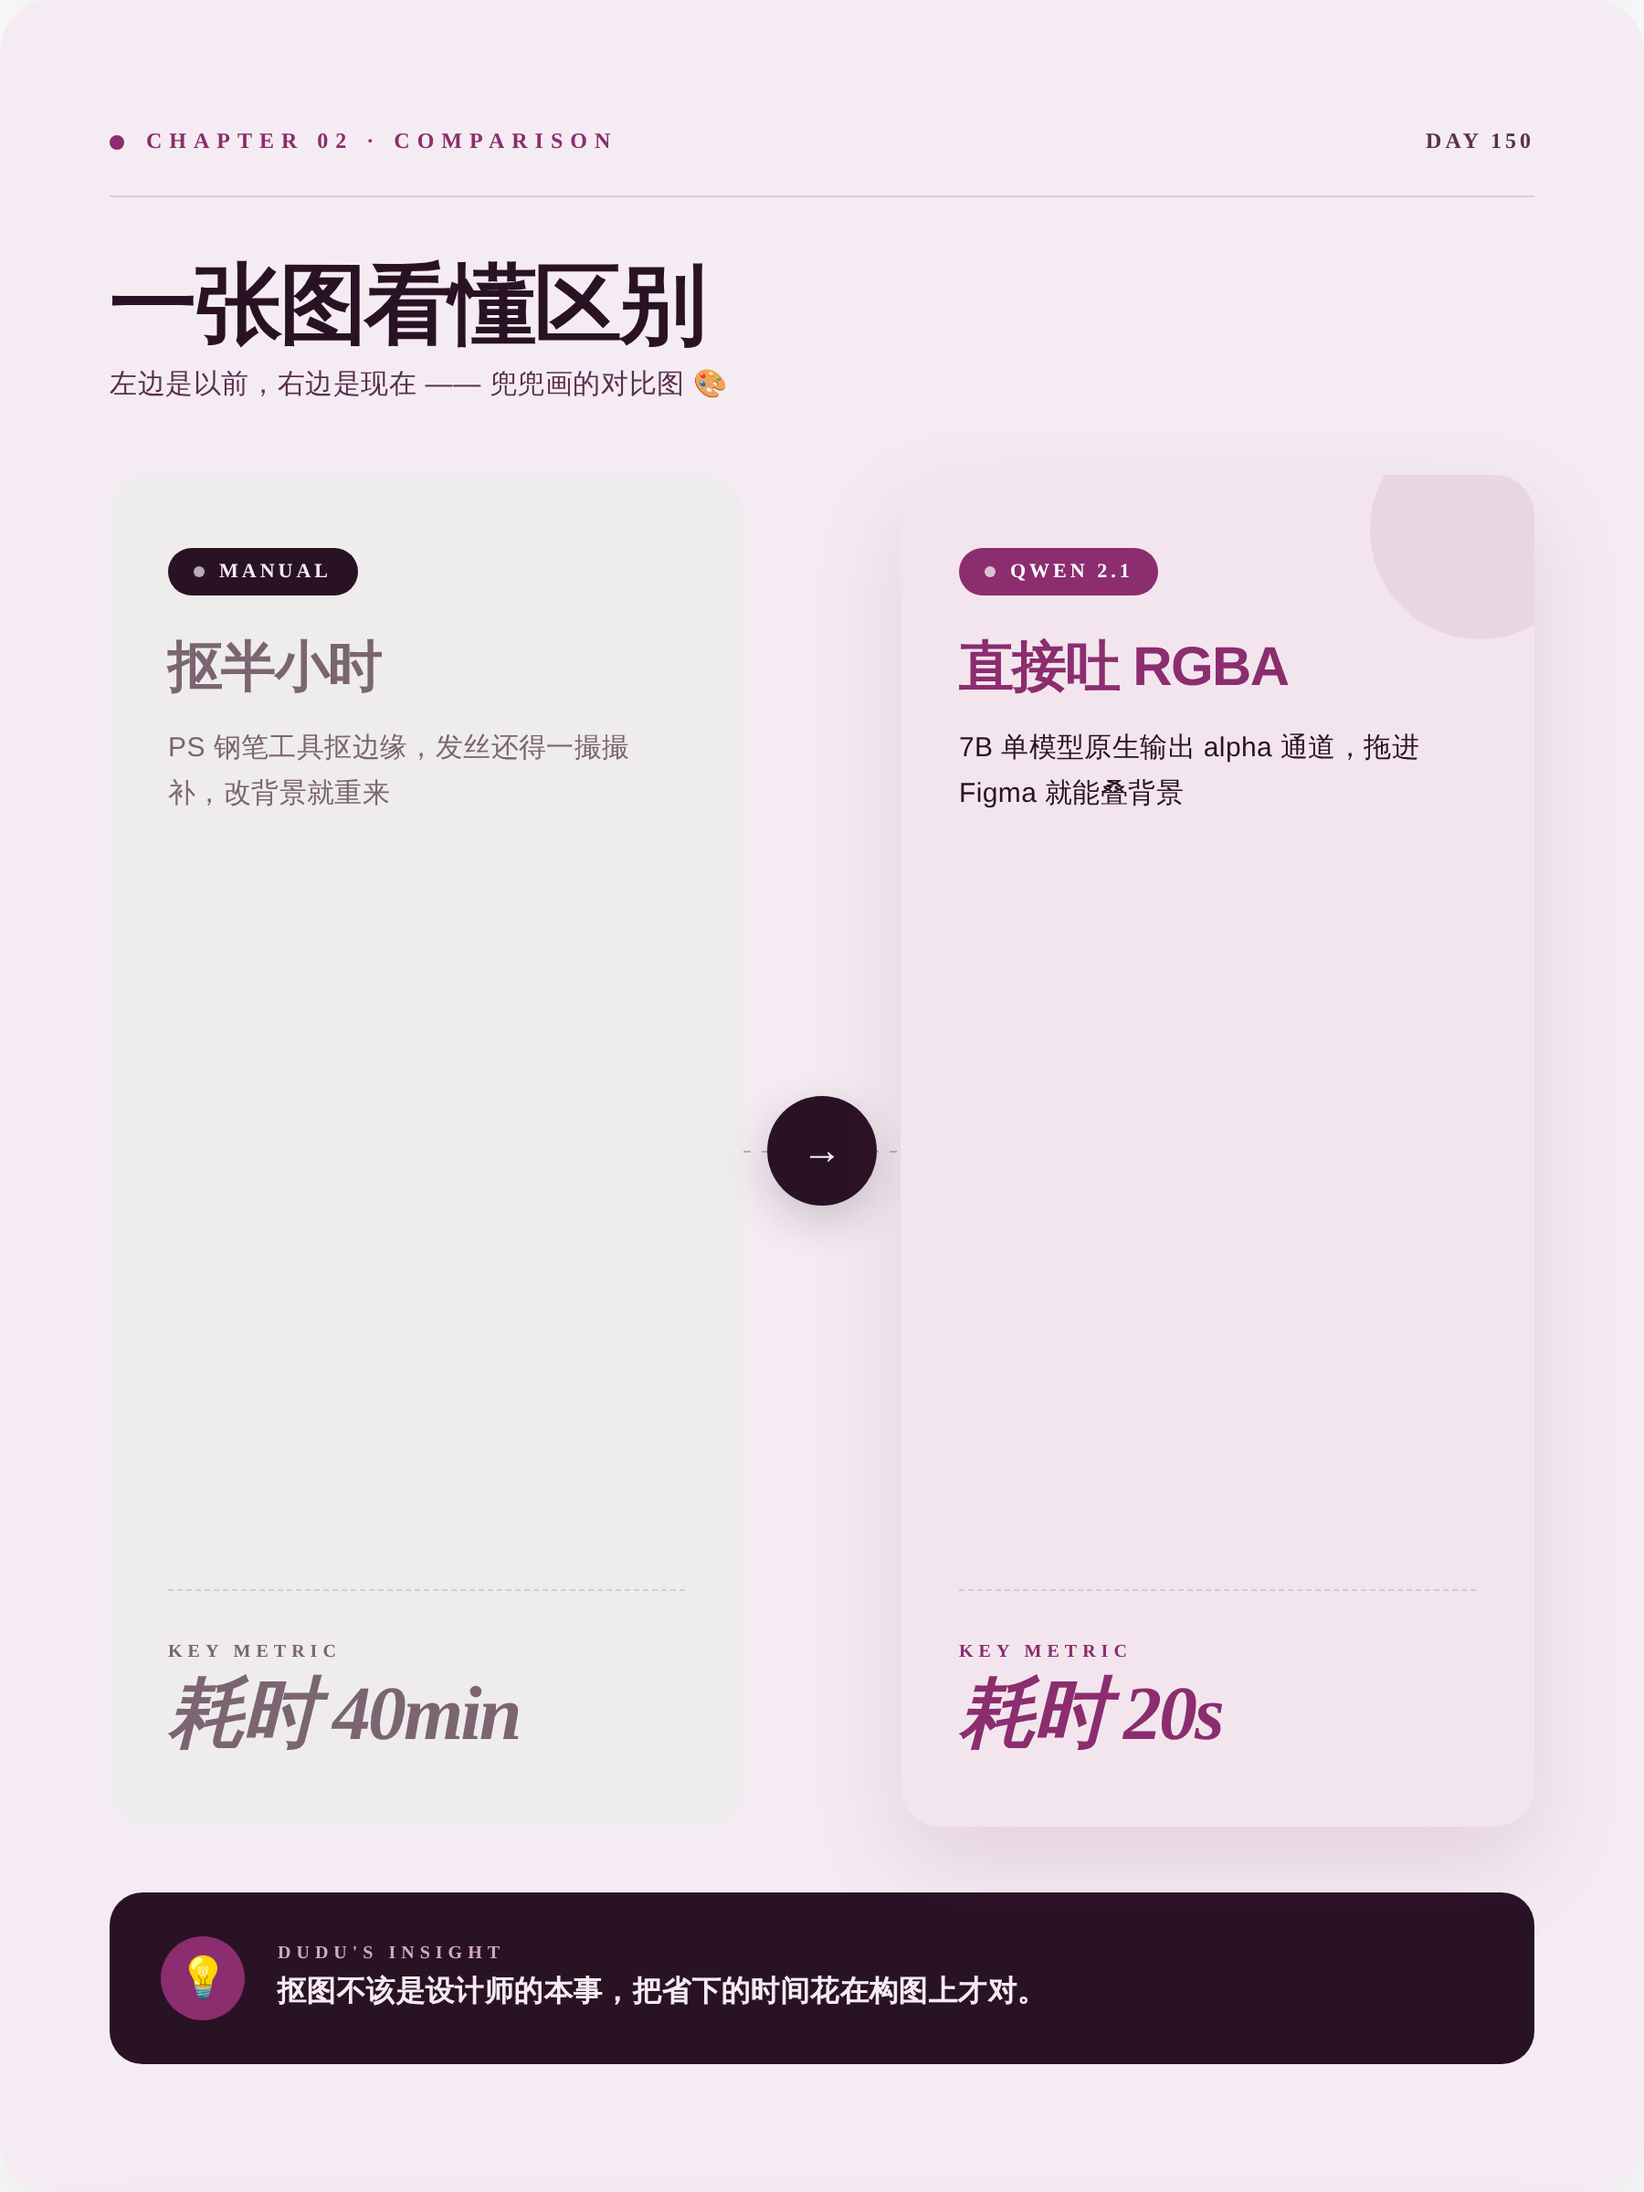
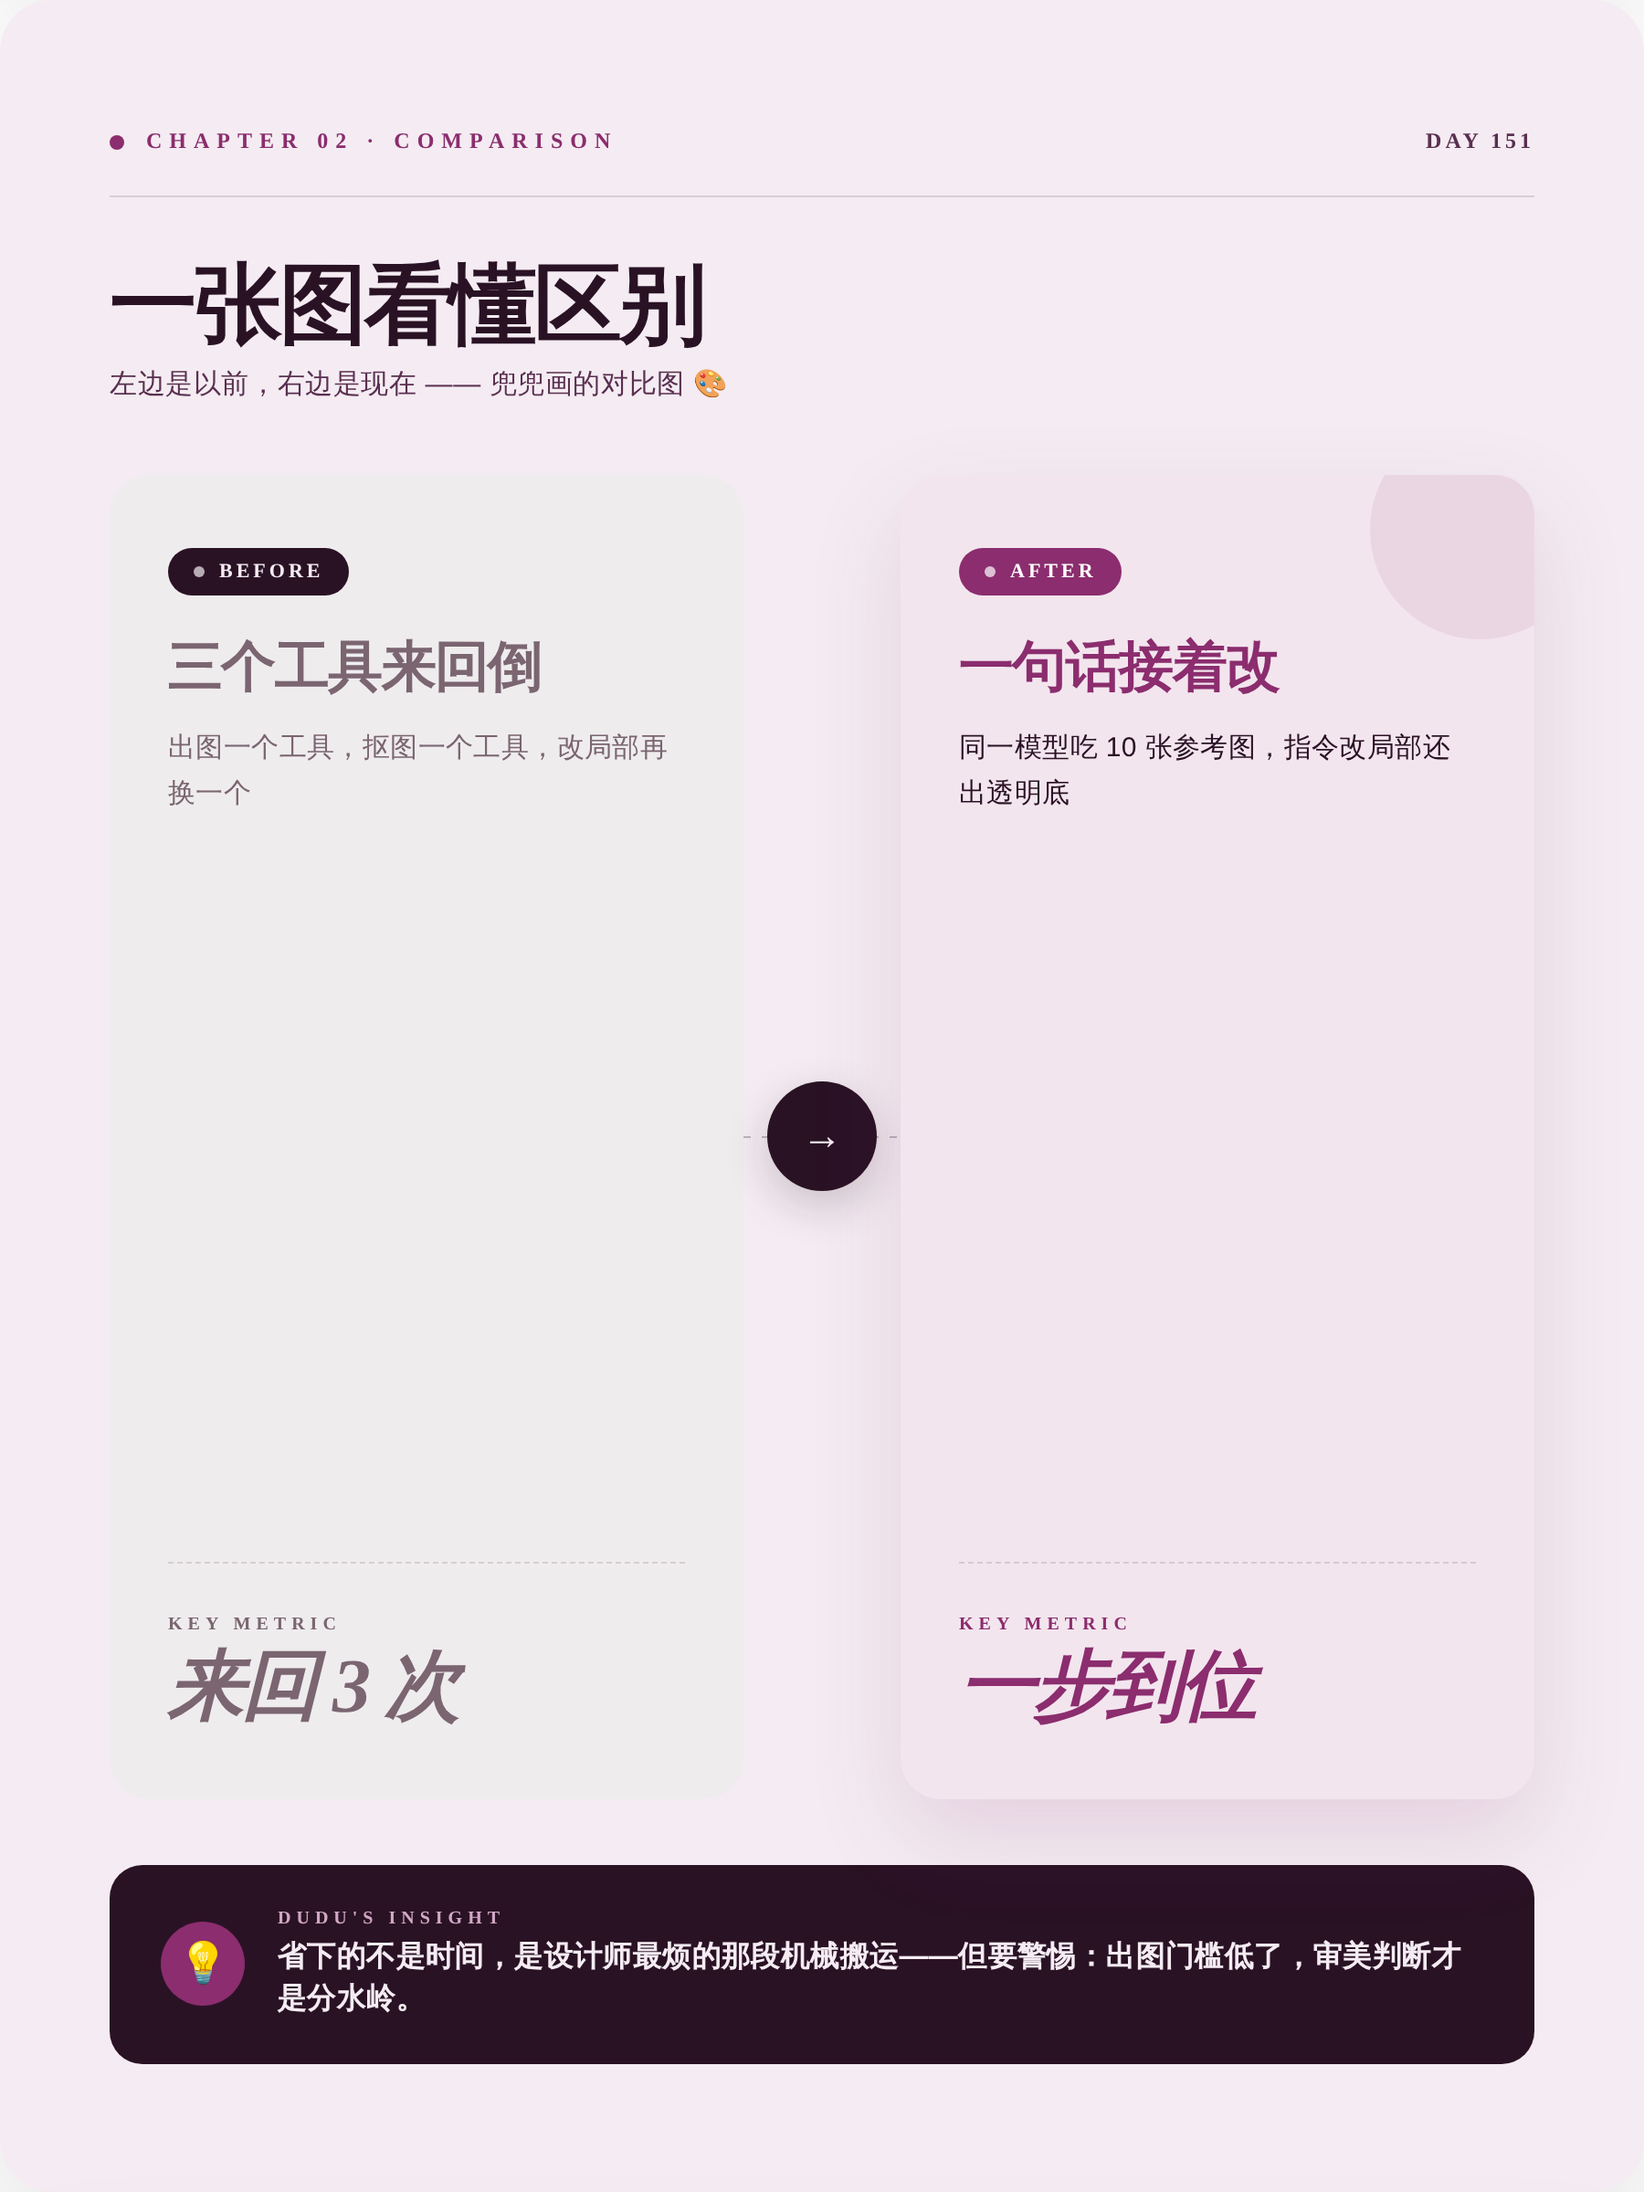
🐣 兜兜的第 151 天日记 (2026-09-21)

diff --git a/output/preview.html b/output/preview.html
@@ -171,31 +171,31 @@ body{font-family:-apple-system,"PingFang SC","Microsoft YaHei",sans-serif}
 <div class="card cover" id="cover">
   <div class="cover-grid"></div>
   <div class="cover-blob"></div>
-  <div class="cover-emoji">🐣</div>
+  <div class="cover-emoji">🪄</div>
 
   <div class="cover-top">
     <div class="cover-brand">
       <div class="cover-brand-dot"></div>
       <div class="cover-brand-text">DUDU&#39;S AI DIARY</div>
     </div>
-    <div class="cover-date">2026.09.20</div>
+    <div class="cover-date">2026.09.21</div>
   </div>
 
   <div class="cover-kicker">
     <div class="cover-kicker-bar"></div>
-    <div class="cover-kicker-text">TOOL UPDATE</div>
+    <div class="cover-kicker-text">MODEL UPDATE</div>
   </div>
 
   <div class="cover-volume">
-    <div class="cover-vol-num">150</div>
+    <div class="cover-vol-num">151</div>
     <div class="cover-vol-meta">
       <div class="cover-vol-label">VOLUME / 卷</div>
-      <div class="cover-vol-sub">兜兜的第 150 天</div>
+      <div class="cover-vol-sub">兜兜的第 151 天</div>
     </div>
   </div>
 
-  <div class="cover-title">7B 出透明底</div>
-  <div class="cover-subtitle">Qwen-Image-2.1 进 ComfyUI，生成编辑一个模型</div>
+  <div class="cover-title">一个模型边出边改</div>
+  <div class="cover-subtitle">7B 统一生成与编辑，还带透明背景</div>
 
   <div class="cover-bottom">
     <div class="cover-bottom-left">
@@ -209,7 +209,7 @@ body{font-family:-apple-system,"PingFang SC","Microsoft YaHei",sans-serif}
       </div>
     </div>
     <div class="cover-bottom-right">
-      <div class="cover-quote-en">&ldquo;Alpha channel, finally native&rdquo;</div>
+      <div class="cover-quote-en">&ldquo;generate, then just keep editing&rdquo;</div>
     </div>
   </div>
 </div>
@@ -222,7 +222,7 @@ body{font-family:-apple-system,"PingFang SC","Microsoft YaHei",sans-serif}
       <div class="compare-head-dot"></div>
       <div class="compare-head-kicker">CHAPTER 02 · COMPARISON</div>
     </div>
-    <div class="compare-head-right">DAY 150</div>
+    <div class="compare-head-right">DAY 151</div>
   </div>
 
   <div class="compare-title">一张图看懂区别</div>
@@ -233,13 +233,13 @@ body{font-family:-apple-system,"PingFang SC","Microsoft YaHei",sans-serif}
     <div class="compare-side before">
       <div class="cs-chip">
         <div class="cs-chip-dot"></div>
-        MANUAL
+        BEFORE
       </div>
-      <div class="cs-title">抠半小时</div>
-      <div class="cs-desc">PS 钢笔工具抠边缘，发丝还得一撮撮补，改背景就重来</div>
+      <div class="cs-title">三个工具来回倒</div>
+      <div class="cs-desc">出图一个工具，抠图一个工具，改局部再换一个</div>
       <div class="cs-metric-wrap">
         <div class="cs-metric-label">KEY METRIC</div>
-        <div class="cs-metric-val">耗时 40min</div>
+        <div class="cs-metric-val">来回 3 次</div>
       </div>
     </div>
 
@@ -253,13 +253,13 @@ body{font-family:-apple-system,"PingFang SC","Microsoft YaHei",sans-serif}
     <div class="compare-side after">
       <div class="cs-chip">
         <div class="cs-chip-dot"></div>
-        QWEN 2.1
+        AFTER
       </div>
-      <div class="cs-title">直接吐 RGBA</div>
-      <div class="cs-desc">7B 单模型原生输出 alpha 通道，拖进 Figma 就能叠背景</div>
+      <div class="cs-title">一句话接着改</div>
+      <div class="cs-desc">同一模型吃 10 张参考图，指令改局部还出透明底</div>
       <div class="cs-metric-wrap">
         <div class="cs-metric-label">KEY METRIC</div>
-        <div class="cs-metric-val">耗时 20s</div>
+        <div class="cs-metric-val">一步到位</div>
       </div>
     </div>
   </div>
@@ -269,7 +269,7 @@ body{font-family:-apple-system,"PingFang SC","Microsoft YaHei",sans-serif}
     <div class="compare-insight-icon">💡</div>
     <div class="compare-insight-text">
       <div class="compare-insight-label">DUDU&#39;S INSIGHT</div>
-      <div class="compare-insight-body">抠图不该是设计师的本事，把省下的时间花在构图上才对。</div>
+      <div class="compare-insight-body">省下的不是时间，是设计师最烦的那段机械搬运——但要警惕：出图门槛低了，审美判断才是分水岭。</div>
     </div>
   </div>
 </div>
@@ -284,46 +284,42 @@ body{font-family:-apple-system,"PingFang SC","Microsoft YaHei",sans-serif}
         <div class="post-avatar">🐣</div>
         <div class="post-author-meta">
           <div class="post-author-name">兜兜的AI日记</div>
-          <div class="post-author-day">DAY 150 · 2026.09.20</div>
+          <div class="post-author-day">DAY 151 · 2026.09.21</div>
         </div>
       </div>
     </div>
     <div class="post-head-right">
       <div class="post-issue">ISSUE</div>
-      <div class="post-issue-num">N°150</div>
+      <div class="post-issue-num">N°151</div>
     </div>
   </div>
 
-  <div class="post-title">🐣Qwen 开源了！一张图带透明底</div>
+  <div class="post-title">🐣7B一个模型，边生成边改图</div>
 
   <div class="post-pullquote">
-    <div class="post-pullquote-text">一个 7B 模型同时吃下生成和编辑，还直接吐带 alpha 通道的透明图，这对做视觉的设计师是能立刻上手的工具级变化。</div>
+    <div class="post-pullquote-text">一个 7B 检查点把生成和编辑塞进同一个模型，还带 RGBA 透明输出，这正好戳中设计师最常干的两件事。</div>
   </div>
 
-  <div class="post-body">兜兜今天刷到 Qwen 的官方推：Qwen-Image-2.1 已经支持 ComfyUI，权重直接开放下载。
+  <div class="post-body">兜兜今天刷到 Qwen 开源了 Qwen-Image-2.1，一个 7B 参数的模型，最让兜兜愣住的是——它把「文生图」和「图像编辑」塞进了同一个检查点里。
 
-兜兜把参数抄下来看了一遍——单个 7B checkpoint，生成和编辑是同一个模型，原生 2K 出图，一次最多能塞 10 张参考图做指令编辑，最关键是：**支持带 alpha 通道的 RGBA 输出**。也就是说，它吐出来的图自带透明底，不用再抠。
+以前兜兜的流程是：Midjourney 出图 → 拖进 PS 抠 → 再塞回另一个工具改。现在它一个模型搞定，最多能吃 10 张参考图，还能原生输出带 alpha 通道的 RGBA，也就是直接给你透明背景。已经进 ComfyUI 和 diffusers，Hugging Face Spaces 上还有免安装的浏览器 demo。
 
-兜兜画了个对比，左边是以前，右边是 AI 之后，看完有点恍惚👇
+▸ 生成和编辑共用一个 checkpoint，意味着「改图」不再是另一条流水线——你出完图，可以接着说「把左边那盏灯换成暖光」，它接着改，不丢上下文。
 
-▸ **透明底才是真痛点**。以前做完一张主视觉，兜兜要开 Photoshop 抠半小时，边缘还毛。现在模型直接出 RGBA，Figma 里拖进来就能叠在任意背景上验色。这个改动不大，但它砍掉的是设计师最烦的那一段机械劳动。
+▸ 原生 RGBA 输出对兜兜来说是个大信号。以前 AI 出的图八成要手动抠一遍背景才能放进 UI 稿，现在透明通道直接给，省掉的正是设计师最烦的那一步机械劳动。
 
-▸ **10 张参考图 = 品牌一致性有救了**。以前让 AI 出图最崩溃的是「风格跑偏」，你给它一张品牌参考，它给你一张差不多的。现在能喂 10 张，兜兜的理解是：可以把品牌色卡、字体样例、上一版 KV 一起丢进去，让它按你既有的视觉语言改，而不是重新发明一套。
+▸ 7B 这个体量也很有意思，小到能在本地或 ComfyUI 里跑，不再是大厂云端专属。兜兜觉得这对独立设计师和小团队更友好，但也意味着——「我会用 AI 出图」这件事本身，很快就不算技能了。
 
-▸ **ComfyUI 支持意味着可控性回来了**。纯网页端出图最难受的是「你想调的那一步调不了」。进了 ComfyUI 就能拆节点、接 ControlNet、锁定某一层。兜兜更喜欢这种——AI 给草稿，最后一步的手感还在自己手里。
+💭 兜兜动手建议：现在就去 Hugging Face Spaces 那个 qwen-image demo，找一张你手头正在改的稿子，试一次「拿它当参考图 + 一句指令改局部」。兜兜试的时候会专门盯两件事：改完之后原来的光影和质感还在不在，以及透明背景导出是不是真的干净。五分钟，比看十篇测评有用。
 
-💭 兜兜动手建议：今天花 5 分钟，在 ComfyUI 里加载 Qwen-Image-2.1，拿你手上正在做的一版主视觉当参考图（就 1 张也行），prompt 只写一句「保持这个配色和构图，把背景换成纯透明」。出图后直接拖进 Figma，叠在深色和浅色两个背景上各看一眼——边缘干净不干净，一眼就知道这模型能不能进你的工作流。
+兜兜更好奇的是：当「生成」和「编辑」真的变成一个动作，你画草图的时候还会先想清楚要什么吗，还是边说边改？
 
-兜兜还小，可能没看透，但兜兜觉得：会抠图曾经是本事，以后可能只是没选对模型。
+—— 兜兜的第 151 天
 
-你上一次手动抠图是什么时候？
-
-—— 兜兜的第 150 天
-
-#Qwen #ComfyUI #AI绘画 #设计工具 #透明底 #设计师日常</div>
+#AI设计 #QwenImage #AIGC #设计师工具 #ComfyUI #图像编辑</div>
 
   <div class="post-tags">
-    <span class="post-tag">#Qwen</span><span class="post-tag">#ComfyUI</span><span class="post-tag">#AI绘画</span><span class="post-tag">#设计工具</span><span class="post-tag">#开源模型</span><span class="post-tag">#设计师日常</span>
+    <span class="post-tag">#AI设计</span><span class="post-tag">#QwenImage</span><span class="post-tag">#AIGC</span><span class="post-tag">#设计师工具</span><span class="post-tag">#ComfyUI</span><span class="post-tag">#图像编辑</span>
   </div>
 
   <div class="post-foot">
